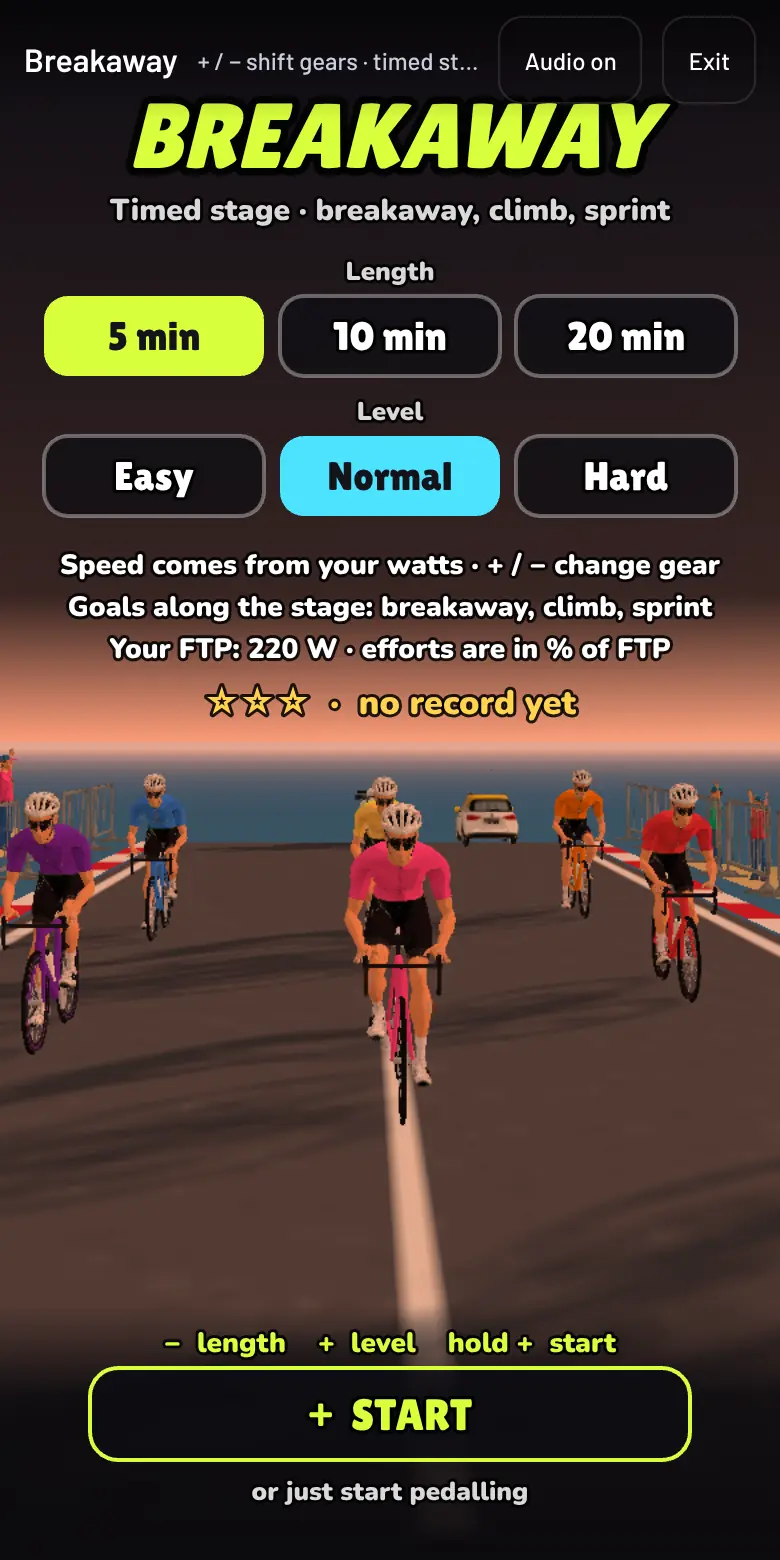
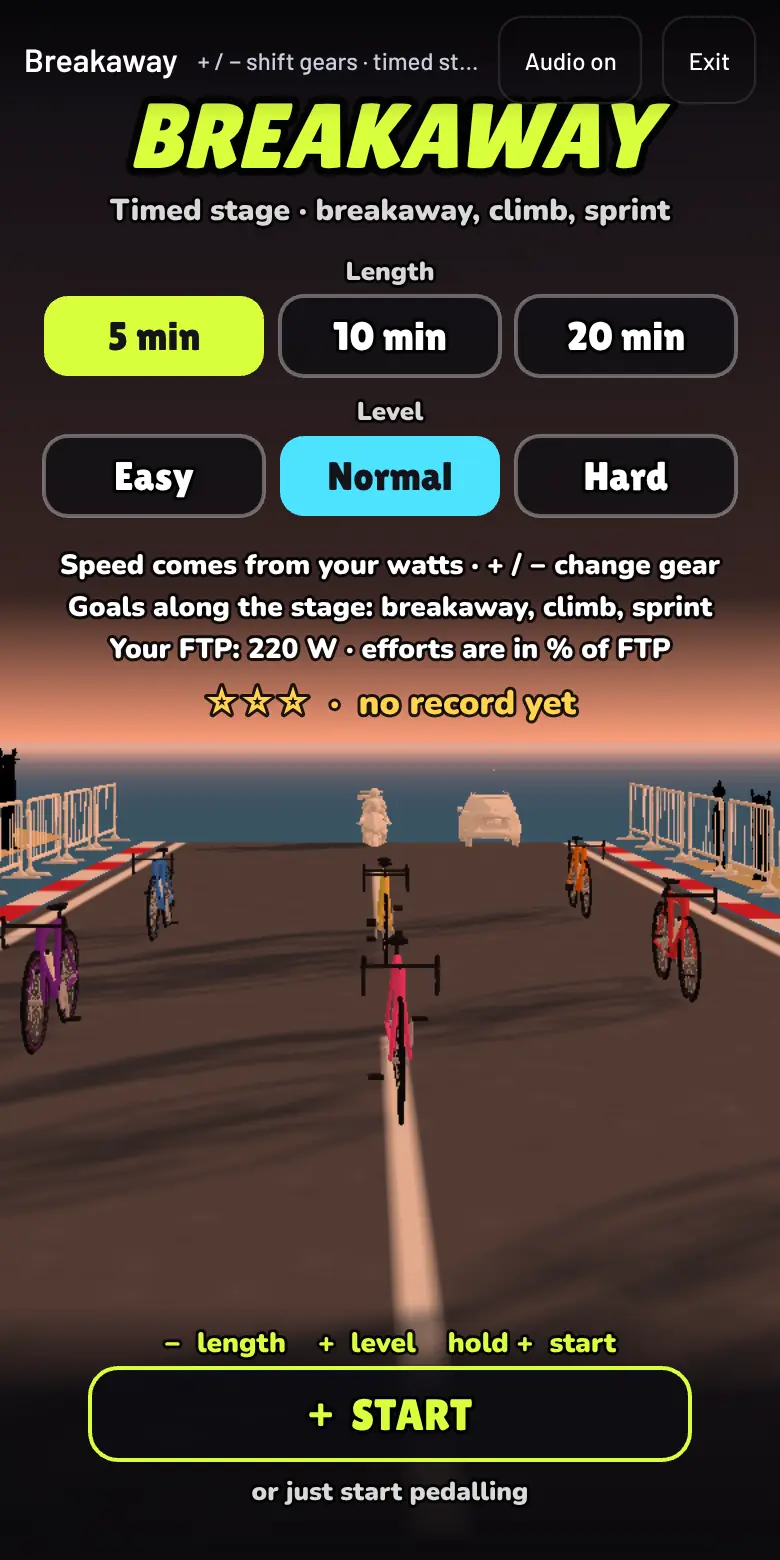
Regenerate screenshots, OG image and contact sheet against the merged build

Changed region(s): [[0.4308, 0.4923, 0.6769, 0.8615], [0.0, 0.4615, 0.2462, 0.6769], [0.7077, 0.4923, 1.0, 0.6462]]

diff --git a/docs/design/s3-notes.md b/docs/design/s3-notes.md
@@ -13,4 +13,5 @@ Left / to redo at the end
 - Re-run `node scripts/site-shots.mjs` once the app UI is final, then `node site/make-og.mjs`.
 - Check `docs/games/CREATE-A-GAME.md` and `js/games/kit/workout-plan.js` after merging `origin/beta`; rebuild.
 - Links to docs on GitHub point at `main`: they work after `beta` is promoted.
-- Not done: axe-core run (no dependency allowed; contrast and structure are checked by `tests/site.spec.mjs`).
+- axe-core runs through `tests/a11y.spec.mjs` (added on beta); the site passes.
+- Merged beta (CSP, fonts, legal): conflicts resolved; screenshots regenerated against the merged build. Known: Horde Run captures look washed out under the software renderer; check on a real device and re-run the script.
